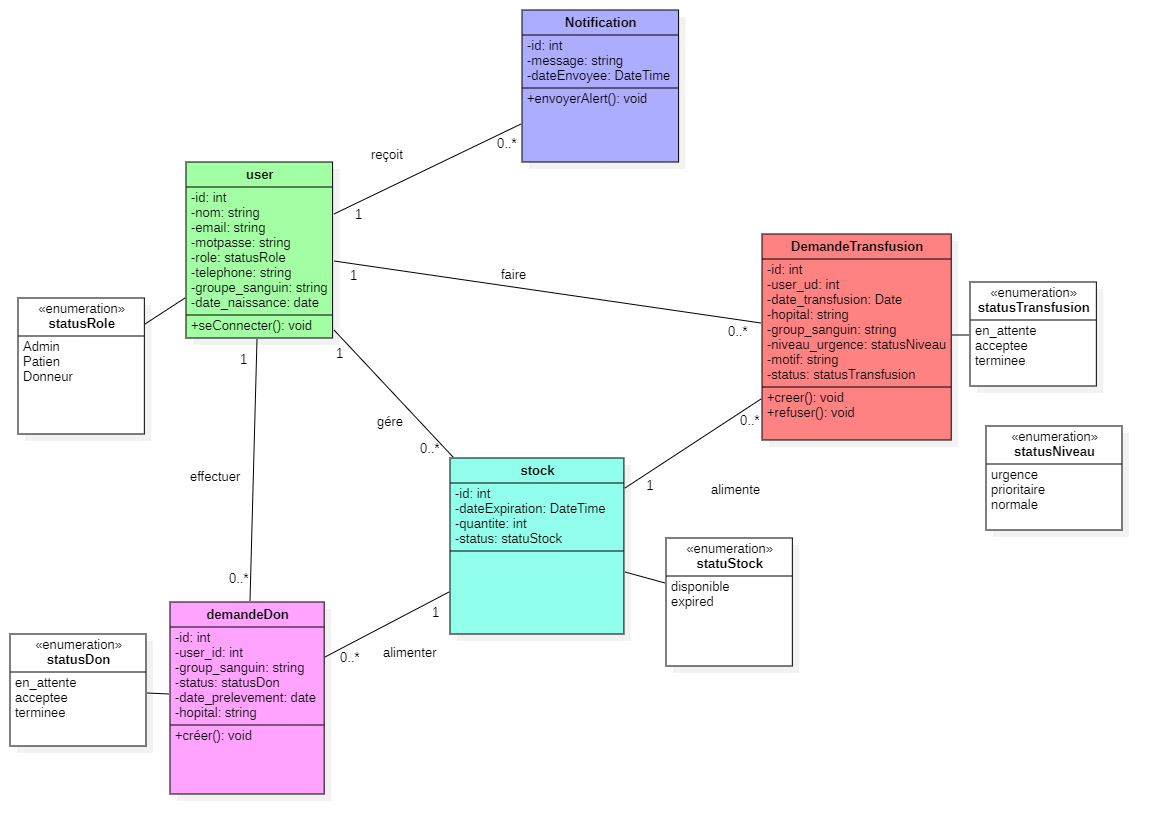
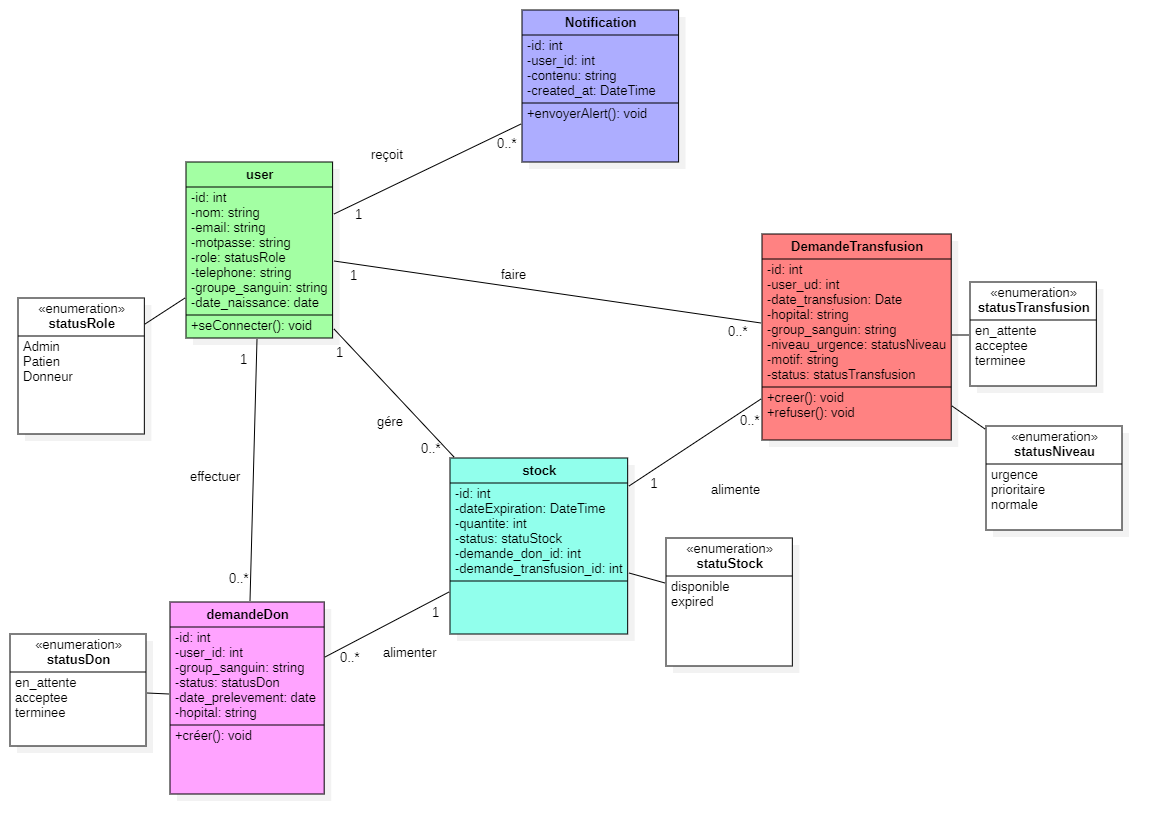
Ajouter Readme file

Changed region(s): [[0.3715, 0.5612, 0.5572, 0.7482], [0.4334, 0.0624, 0.5881, 0.1559], [0.4334, 0.5612, 0.4643, 0.5923]]

diff --git a/README.md b/README.md
@@ -1,7 +1,6 @@
-  
-# 🩸 Sharayan
+# Sharayan
 
-## 📖 Présentation
+## Présentation
 
 **Sharayan** est une application web dédiée à la gestion du don et de la transfusion sanguine.
 
@@ -11,7 +10,7 @@ Le projet a été réalisé dans le cadre de ma formation en **Développement Fu
 
 ---
 
-## 🎯 Objectifs
+## Objectifs
 
 Les principaux objectifs de l'application sont :
 
@@ -26,11 +25,11 @@ Les principaux objectifs de l'application sont :
 
 ---
 
-# 👥 Utilisateurs de l'application
+# Utilisateurs de l'application
 
 L'application possède trois rôles principaux :
 
-### 👤 Patient
+### Patient
 
 Le patient peut :
 
@@ -41,7 +40,7 @@ Le patient peut :
 - Annuler une demande lorsque son statut est `en_attente`.
 - Consulter et modifier ses informations personnelles.
 
-### 🩸 Donneur
+### Donneur
 
 Le donneur peut :
 
@@ -52,7 +51,7 @@ Le donneur peut :
 - Suivre le statut de sa demande.
 - Consulter et modifier ses informations personnelles.
 
-### 👨💼 Administrateur
+###  Administrateur
 
 L'administrateur peut :
 
@@ -67,7 +66,7 @@ L'administrateur peut :
 
 ---
 
-# 🛠 Technologies utilisées
+# Technologies utilisées
 
 ## Backend
 
@@ -96,26 +95,32 @@ L'administrateur peut :
 - **Postman**
 - **StarUML**
 - **Figma**
+- **DockerHub**
 
 ---
 
-# 🏗 Architecture du projet
+#  Architecture du projet
 
 Le projet est organisé en deux parties principales :
 
-
 Sharayan/
-│
-├── sharayan-backend/
-│
-├── sharayan-frontend/
-│
-├── docker-compose.yml
-│
-└── README.md
+ │ 
+ ├── sharayan-backend/
+  │ └── Laravel API
+  │
+  ├── sharayan-frontend/
+  │ └── React + Vite
+  │ 
+  ├── Diagrammes-Sharayan/
+  │ ├── UseCaseDiagram1.png
+  │ ├── ClassDiagram1.png
+  │ └── ERDDiagram1.png
+  │ 
+  ├── docker-compose.yml
+  │ 
+  └── README.md
 
-
-## 📊 Diagrammes UML
+##  Diagrammes UML
 
 ### Diagramme de cas d'utilisation
 
@@ -129,10 +134,9 @@ Sharayan/
 
 ![Diagramme ERD](./Diagrammes-Sharayan/ERDDiagram1.png)
 
-
 ---
 
-# 🐳 Docker
+#  Docker
 
 Le projet Sharayan utilise **Docker** et **Docker Compose** afin de faciliter la configuration et l'exécution de l'environnement de développement.
 
@@ -142,17 +146,63 @@ L'environnement Docker contient :
 - un conteneur pour le frontend React ;
 - un conteneur pour la base de données MySQL.
 
-## 📦 Architecture Docker
-
+##  Architecture Docker
 
 Sharayan
 │
 ├── sharayan-backend
-│   └── Laravel
+│ └── Laravel
 │
 ├── sharayan-frontend
-│   └── React + Vite
+│ └── React + Vite
 │
 ├── MySQL
 │
 └── docker-compose.yml
+
+## Installation et lancement
+1. Cloner le projet
+git clone https://github.com/kaoutarouissa/Sharayan.git
+cd Sharayan
+2. Lancer les conteneurs Docker
+docker compose up -d --build
+3. Vérifier les conteneurs
+docker compose ps
+
+Les conteneurs principaux doivent être démarrés :
+
+sharayan-backend
+sharayan-frontend
+sharayan-mysql
+4. Exécuter les migrations Laravel
+docker compose exec backend php artisan migrate
+
+Si les données de test doivent être générées :
+
+docker compose exec backend php artisan db:seed
+
+## Accès à l'application
+
+Une fois les conteneurs démarrés :
+
+Frontend React : http://localhost:5173
+Backend Laravel API : http://localhost:8000
+API : http://localhost:8000/api
+
+## Authentification
+
+L'application utilise Laravel Sanctum pour gérer l'authentification des utilisateurs.
+
+Les utilisateurs sont répartis en trois rôles :
+
+admin
+donneur
+patient
+
+Chaque rôle possède des fonctionnalités et des accès différents.
+
+## Auteur
+
+Kaoutar Ouissa
+
+Projet réalisé dans le cadre de la formation Développement Full Stack.
